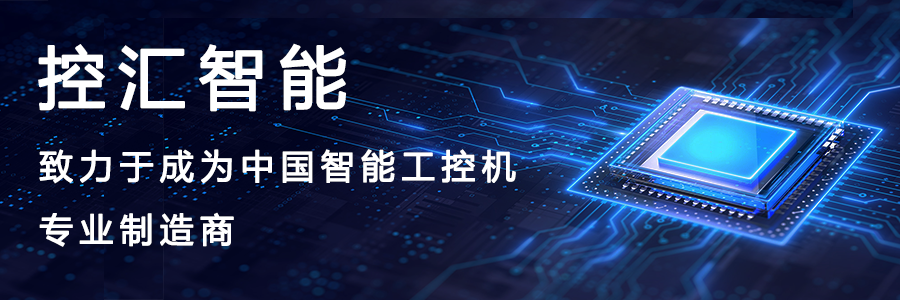
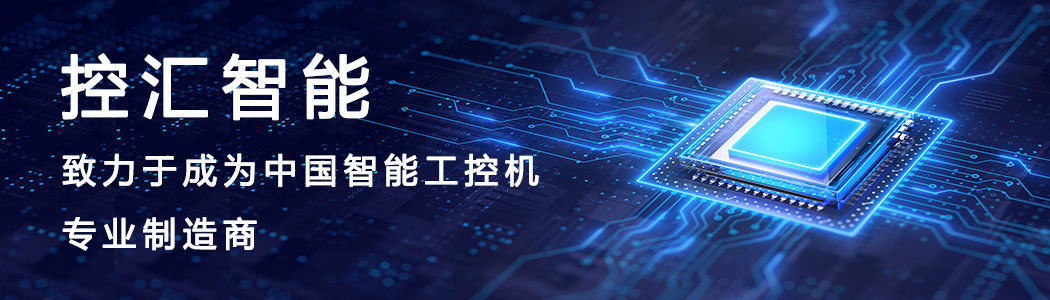
技术支持，系统管理界面，还换了一张图片

diff --git a/KongHui1/Presentation/HelpPage.xaml b/KongHui1/Presentation/HelpPage.xaml
@@ -45,90 +45,94 @@
   <Page.Background>
     <SolidColorBrush Color="#F4F9FF"/>
   </Page.Background>
- <Border>
-  
-  <Grid>
-    <!-- 定义三行，占比为1/4、1/4 和 1/2 -->
-    <Grid.RowDefinitions>
-      <RowDefinition Height="*" />
-      <RowDefinition Height="*" />
-      <RowDefinition Height="2*" />
-    </Grid.RowDefinitions>
 
-    <!-- 上部：显示主机型号和在线客服按钮 -->
-    <Grid Grid.Row="0" Margin="20">
-      <Grid.ColumnDefinitions>
-        <ColumnDefinition Width="*" />
-        <!-- 左侧占用剩余空间 -->
-        <ColumnDefinition Width="Auto" />
-        <!-- 按钮根据内容自动调整大小 -->
-      </Grid.ColumnDefinitions>
 
-      <!-- 主机型号 -->
-        <StackPanel Orientation="Horizontal" VerticalAlignment="Center" Margin="50,0,0,0">
-          <TextBlock Text="主板型号：" FontSize="20" FontWeight="Bold" Foreground="{StaticResource TextColor}" VerticalAlignment="Center" Margin="0,0,10,0"  Grid.Row="0" Grid.Column="0"/>
-          <TextBlock x:Name="MotherboardInfoTextBlock" Text="正在获取主板型号..." FontSize="20" FontWeight="Bold" Foreground="{StaticResource TextColor}" VerticalAlignment="Center" />
-        </StackPanel>
+  <Viewbox
+   StretchDirection="Both" 
+   VerticalAlignment="Top">
+    <Grid>
+      <!-- 定义三行，占比为1/4、1/4 和 1/2 -->
+      <Grid.RowDefinitions>
+        <RowDefinition Height="1*" />
+        <!-- 第一行 -->
+        <RowDefinition Height="2*" />
+        <!-- 第二行 -->
+        <RowDefinition Height="3*" />
+        <!-- 第三行 -->
+      </Grid.RowDefinitions>
+
+      <!-- 上部：显示主机型号和在线客服按钮 -->
+
+      <StackPanel Grid.Row="0" Margin="50,80,50,80" Orientation="Horizontal" VerticalAlignment="Center">
+        <TextBlock Text="主板型号：" FontSize="30" FontWeight="Bold" Foreground="Black" VerticalAlignment="Center" Margin="0,0,10,0" />
+        <TextBlock x:Name="MotherboardInfoTextBlock" Text="正在获取主板型号..." FontSize="30" FontWeight="Bold" Foreground="Black" VerticalAlignment="Center" />
+
         <!-- 在线客服按钮 -->
-        <Button Content="在线客服"  CornerRadius="5" Background="#0078D7" Foreground="White" 
-          HorizontalAlignment="Right" VerticalAlignment="Center"
-          FontSize="16" FontWeight="Bold" Width="150" Height="40"
-          Grid.Row="0" Grid.Column="1" Padding="10,5"
-          Margin="0,0,50,0"  />
-          
-    </Grid>
+        <Button Content="在线客服" CornerRadius="5" Background="#0078D7" Foreground="White"
+            HorizontalAlignment="Right" VerticalAlignment="Center"
+            FontSize="16" FontWeight="Bold" Width="150" Height="40"
+            Padding="10,5" Margin="600,0,0,0" />
+      </StackPanel>
 
-    <!-- 中部：按钮组 -->
-    <StackPanel Grid.Row="1" Orientation="Horizontal" HorizontalAlignment="Center" VerticalAlignment="Center" Spacing="20">
+
+
+
+      <!-- 中部：按钮组 -->
+      <StackPanel Grid.Row="1" Margin="50,0,50,80" Orientation="Horizontal" HorizontalAlignment="Left" VerticalAlignment="Top" Spacing="30">
 
         <Border Style="{StaticResource CardStyle}" x:Name="Card1" PointerEntered="OnPointerEntered" PointerExited="OnPointerExited">
           <Button Tapped="OnProblemResolutionTapped" Style="{StaticResource NoHoverButtonStyle}">
-          <StackPanel>
-            <Image Source="ms-appx:///Images/pro_eli1.png" Width="100" Height="100"/>
-          </StackPanel>
-        </Button>
-      </Border>
+            <StackPanel>
+              <Image Source="ms-appx:///Images/pro_eli1.png" Width="100" Height="100"/>
+            </StackPanel>
+          </Button>
+        </Border>
 
         <Border Style="{StaticResource CardStyle}" x:Name="Card2" PointerEntered="OnPointerEntered"  PointerExited="OnPointerExited">
-      <Button Tapped="OnFeedbackTapped" Style="{StaticResource NoHoverButtonStyle}">
-        <StackPanel>
-          <Image Source="ms-appx:///Images/pro_fee1.png" Width="100" Height="100"/>
-        </StackPanel>
-      </Button>
-      </Border>
+          <Button Tapped="OnFeedbackTapped" Style="{StaticResource NoHoverButtonStyle}">
+            <StackPanel>
+              <Image Source="ms-appx:///Images/pro_fee1.png" Width="100" Height="100"/>
+            </StackPanel>
+          </Button>
+        </Border>
         <Border Style="{StaticResource CardStyle}" x:Name="Card3" PointerEntered="OnPointerEntered"  PointerExited="OnPointerExited">
-      <Button Tapped="OnRepairPlatformTapped" Style="{StaticResource NoHoverButtonStyle}">
-        <StackPanel>
-          <Image Source="ms-appx:///Images/main_pla1.png" Width="100" Height="100"/>
-        </StackPanel>
-      </Button>
-      </Border>
+          <Button Tapped="OnRepairPlatformTapped" Style="{StaticResource NoHoverButtonStyle}">
+            <StackPanel>
+              <Image Source="ms-appx:///Images/main_pla1.png" Width="100" Height="100"/>
+            </StackPanel>
+          </Button>
+        </Border>
         <Border Style="{StaticResource CardStyle}" x:Name="Card4" PointerEntered="OnPointerEntered"  PointerExited="OnPointerExited">
-        <Button Tapped="OnCompleteQueryTapped" Style="{StaticResource NoHoverButtonStyle}">
-        <StackPanel>
-          <Image Source="ms-appx:///Images/mac_que1.png" Width="100" Height="100"/>
-        </StackPanel>
-      </Button>
-      </Border>
+          <Button Tapped="OnCompleteQueryTapped" Style="{StaticResource NoHoverButtonStyle}">
+            <StackPanel>
+              <Image Source="ms-appx:///Images/mac_que1.png" Width="100" Height="100"/>
+            </StackPanel>
+          </Button>
+        </Border>
         <Border Style="{StaticResource CardStyle}" x:Name="Card5" PointerEntered="OnPointerEntered"  PointerExited="OnPointerExited">
-      
-      <Button Tapped="OnWarrantyQueryTapped" Style="{StaticResource NoHoverButtonStyle}">
-        <StackPanel>
-          <Image Source="ms-appx:///Images/war_que1.png" Width="100" Height="100"/>
-        </StackPanel>
-      </Button>
-      </Border>
-        <Border Style="{StaticResource CardStyle}" x:Name="Card6" PointerEntered="OnPointerEntered"  PointerExited="OnPointerExited">
-      <Button Tapped="OnAddressQueryTapped" Style="{StaticResource NoHoverButtonStyle}">
-        <StackPanel>
-          <Image Source="ms-appx:///Images/add_que1.png" Width="100" Height="100"/>
-        </StackPanel>
-      </Button>
-      </Border>
-    </StackPanel>
 
-    <!-- 下部：显示图片 -->
-    <Image Grid.Row="2" Source="ms-appx:///Images/kh_ima.png" Width="700" Height="350" HorizontalAlignment="Center" VerticalAlignment="Center"/>
-  </Grid>
-</Border>
+          <Button Tapped="OnWarrantyQueryTapped" Style="{StaticResource NoHoverButtonStyle}">
+            <StackPanel>
+              <Image Source="ms-appx:///Images/war_que1.png" Width="100" Height="100"/>
+            </StackPanel>
+          </Button>
+        </Border>
+        <Border Style="{StaticResource CardStyle}" x:Name="Card6" PointerEntered="OnPointerEntered"  PointerExited="OnPointerExited">
+          <Button Tapped="OnAddressQueryTapped" Style="{StaticResource NoHoverButtonStyle}">
+            <StackPanel>
+              <Image Source="ms-appx:///Images/add_que1.png" Width="100" Height="100"/>
+            </StackPanel>
+          </Button>
+        </Border>
+      </StackPanel>
+
+
+      <!-- 第三行：显示图片，取消外边框，图片填充StackPanel -->
+      <Border Grid.Row="2" Margin="50,10,50,50" HorizontalAlignment="Center" VerticalAlignment="Center" CornerRadius="10" BorderBrush="Transparent">
+        <StackPanel HorizontalAlignment="Center" VerticalAlignment="Center">
+          <Image Source="ms-appx:///Images/kh_ima.png" HorizontalAlignment="Stretch" VerticalAlignment="Stretch" />
+        </StackPanel>
+      </Border>
+    </Grid>
+  </Viewbox>
 </Page>

diff --git a/KongHui1/Presentation/SystemPage.xaml b/KongHui1/Presentation/SystemPage.xaml
@@ -41,6 +41,9 @@
     <SolidColorBrush Color="#F4F9FF"/>
   </Page.Background>
 
+  <Viewbox
+   StretchDirection="Both" 
+   VerticalAlignment="Top">
   <Grid>
     <!-- 定义三行，占比为1/4、1/4 和 1/2 -->
     <Grid.RowDefinitions>
@@ -53,14 +56,13 @@
     </Grid.RowDefinitions>
 
     <!-- 第一行 -->
-    <StackPanel Grid.Row="0" Margin="80,10" Orientation="Horizontal" VerticalAlignment="Center">
+    <StackPanel Grid.Row="0" Margin="50,80,50,80" Orientation="Horizontal" VerticalAlignment="Center">
       <TextBlock Text="主板型号：" FontSize="30" FontWeight="Bold" Foreground="Black" VerticalAlignment="Center" Margin="0,0,10,0" />
       <TextBlock x:Name="MotherboardInfoTextBlock" Text="正在获取主板型号..." FontSize="30" FontWeight="Bold" Foreground="Black" VerticalAlignment="Center" />
     </StackPanel>
 
     <!-- 第二行：按钮组 -->
-    
-    <StackPanel Grid.Row="1" Margin="80,10" Orientation="Horizontal" HorizontalAlignment="Center" VerticalAlignment="Top" Spacing="40">
+    <StackPanel Grid.Row="1" Margin="50,0,50,80" Orientation="Horizontal" HorizontalAlignment="Left" VerticalAlignment="Top" Spacing="80">
       <Border Style="{StaticResource CardStyle}" x:Name="Card1" PointerEntered="OnPointerEntered"  PointerExited="OnPointerExited">
         <Button Tapped="OnSystemDownloadTapped" Background="Transparent" Style="{StaticResource NoHoverButtonStyle}">
           <StackPanel>
@@ -87,12 +89,14 @@
       </Border>
     </StackPanel>
 
+
     <!-- 第三行：显示图片，取消外边框，图片填充StackPanel -->
-    <Border Grid.Row="2" Margin="80,10,80,50" HorizontalAlignment="Center" VerticalAlignment="Center" CornerRadius="10" BorderBrush="Transparent">
+    <Border Grid.Row="2" Margin="50,10,50,50" HorizontalAlignment="Center" VerticalAlignment="Center" CornerRadius="10" BorderBrush="Transparent">
       <StackPanel HorizontalAlignment="Center" VerticalAlignment="Center">
         <Image Source="ms-appx:///Images/kh_ima.png" HorizontalAlignment="Stretch" VerticalAlignment="Stretch" />
       </StackPanel>
     </Border>
 
   </Grid>
+  </Viewbox>
 </Page>

diff --git a/KongHui1/Presentation/system_backup.xaml b/KongHui1/Presentation/system_backup.xaml
@@ -8,21 +8,19 @@
     mc:Ignorable="d">
 
   <Page.Background>
-    <LinearGradientBrush StartPoint="0,0" EndPoint="1,1">
-      <GradientStop Color="#D6ECF3" Offset="0.0"/>
-      <GradientStop Color="White" Offset="1.0"/>
-    </LinearGradientBrush>
+    <SolidColorBrush Color="#F4F9FF"/>
   </Page.Background>
 
-  <Grid>
-    <!-- Header with Back Button and Title -->
-    <StackPanel Orientation="Horizontal" HorizontalAlignment="Left" VerticalAlignment="Top" Margin="10,50,0,0">
-      <Image Source="ms-appx:///Images/BackIcon.png" Width="20" Height="20" PointerPressed="BackButton_Click" HorizontalAlignment="Left"/>
-      <TextBlock Text="系统备份与还原" FontSize="24" FontWeight="Bold" HorizontalAlignment="Left" VerticalAlignment="Center" Margin="10,0,0,0"/>
-    </StackPanel>
 
+  <Grid Padding="20">
+    <!-- 页面头部 -->
+    <StackPanel Orientation="Horizontal" VerticalAlignment="Top" HorizontalAlignment="Left" Margin="10" >
+      <Image Source="ms-appx:///Images/BackIcon.png" Width="20" Height="20" PointerPressed="BackButton_Click"/>
+      <TextBlock Text="系统备份与还原" FontSize="24" FontWeight="Bold" HorizontalAlignment="Center" VerticalAlignment="Center" Margin="10,0,0,0" Foreground="Black"/>
+    </StackPanel>
+    
     <!-- Instructional Text -->
-    <StackPanel HorizontalAlignment="Center" VerticalAlignment="Center" Margin="30,80,30,30">
+    <StackPanel HorizontalAlignment="Left" VerticalAlignment="Top" Margin="30,80,30,30">
       <TextBlock Text="1. 系统备份还原中用户可以选择相应的镜像版本通过重启电脑选择特定的按键（如F11或A）来进入备份或还原程序的界面。" 
                  FontSize="20" TextAlignment="Left" Margin="0,10"/>
       <TextBlock Text="2. 备份和还原是需要重启到程序界面，使用的是什么程序，这个界面是什么样（调用别的程序，类似还原精灵来实现，可以在bootloader中启动）。" 

diff --git a/KongHui1/Presentation/BIOS_upgrade.xaml b/KongHui1/Presentation/BIOS_upgrade.xaml
@@ -12,19 +12,17 @@
   </Page.Background>
 
 
-  <Grid>
-    <!-- Header with Back Button and Title -->
-    <StackPanel Orientation="Horizontal" VerticalAlignment="Top" HorizontalAlignment="Left" Margin="10,10">
-      <Image Source="ms-appx:///Images/BackIcon.png" Width="25" Height="25" PointerPressed="BackButton_Click"/>
-      <TextBlock Text="BIOS升级" FontSize="25" FontWeight="Bold" HorizontalAlignment="Center" VerticalAlignment="Center" Margin="20,10,0,0" Foreground="#333"/>
+  <Grid Padding="20">
+    <!-- 页面头部 -->
+    <StackPanel Orientation="Horizontal" VerticalAlignment="Top" HorizontalAlignment="Left" Margin="10" >
+      <Image Source="ms-appx:///Images/BackIcon.png" Width="20" Height="20" PointerPressed="BackButton_Click"/>
+      <TextBlock Text="BIOS升级" FontSize="24" FontWeight="Bold" HorizontalAlignment="Center" VerticalAlignment="Center" Margin="10,0,0,0" Foreground="Black"/>
     </StackPanel>
 
 
     <!-- Instructional Text -->
-    <Viewbox
-   StretchDirection="Both" 
-   VerticalAlignment="Top">
-    <StackPanel HorizontalAlignment="Center" VerticalAlignment="Center" Margin="30,80,30,30">
+
+    <StackPanel HorizontalAlignment="Left" VerticalAlignment="Top" Margin="30,80,30,30">
       <TextBlock Text="1. 目前我们是用U盘存放执行程序和文件，在uefishell下刷新，有Windows程序但是需要手动操作，需要验证。" 
                  FontSize="20" TextAlignment="Left" Margin="0,10"/>
       <TextBlock Text="2. 需要升级告诉用户怎么升级，不需要升级显示已是最新版本。" 
@@ -34,6 +32,6 @@
       <TextBlock Text="4. 屏蔽Win10驱动签名、屏蔽自动更新，设置电源性能模式、设置网卡巨型帧大缓存节能以太网，这些要预留增加新功能的方法。" 
                  FontSize="20" TextAlignment="Left" Margin="0,10"/>
     </StackPanel>
-    </Viewbox>
+
   </Grid>
 </Page>

diff --git a/KongHui1/Presentation/Mirroring_download.xaml b/KongHui1/Presentation/Mirroring_download.xaml
@@ -8,22 +8,20 @@
     mc:Ignorable="d">
 
   <Page.Background>
-    <LinearGradientBrush StartPoint="0,0" EndPoint="1,1">
-      <GradientStop Color="#D6ECF3" Offset="0.0"/>
-      <GradientStop Color="White" Offset="1.0"/>
-    </LinearGradientBrush>
+    <SolidColorBrush Color="#F4F9FF"/>
   </Page.Background>
 
-  <Grid>
-    <StackPanel Orientation="Horizontal" HorizontalAlignment="Left" VerticalAlignment="Top" Margin="10,50,0,0">
-      <Image Source="ms-appx:///Images/BackIcon.png" Width="20" Height="20" PointerPressed="BackButton_Click" HorizontalAlignment="Left"/>
-      <TextBlock Text="系统镜像下载" FontSize="24" FontWeight="Bold" HorizontalAlignment="Left" VerticalAlignment="Center" Margin="10,0,0,0"/>
+
+  <Grid Padding="20">
+    <!-- 页面头部 -->
+    <StackPanel Orientation="Horizontal" VerticalAlignment="Top" HorizontalAlignment="Left" Margin="10" >
+      <Image Source="ms-appx:///Images/BackIcon.png" Width="20" Height="20" PointerPressed="BackButton_Click"/>
+      <TextBlock Text="系统镜像下载" FontSize="24" FontWeight="Bold" HorizontalAlignment="Center" VerticalAlignment="Center" Margin="10,0,0,0" Foreground="Black"/>
     </StackPanel>
     
-    <TextBlock Text="用户可以通过点击系统镜像下载按钮下载需要的镜像版本"
-               HorizontalAlignment="Center"
-               VerticalAlignment="Center"
-               FontSize="20"
-               TextAlignment="Center"/>
+    <StackPanel HorizontalAlignment="Left" VerticalAlignment="Top" Margin="30,80,30,30">
+      <TextBlock Text="用户可以通过点击系统镜像下载按钮下载需要的镜像版本" 
+                 FontSize="20" TextAlignment="Left" Margin="0,10"/>
+    </StackPanel>
   </Grid>
 </Page>
